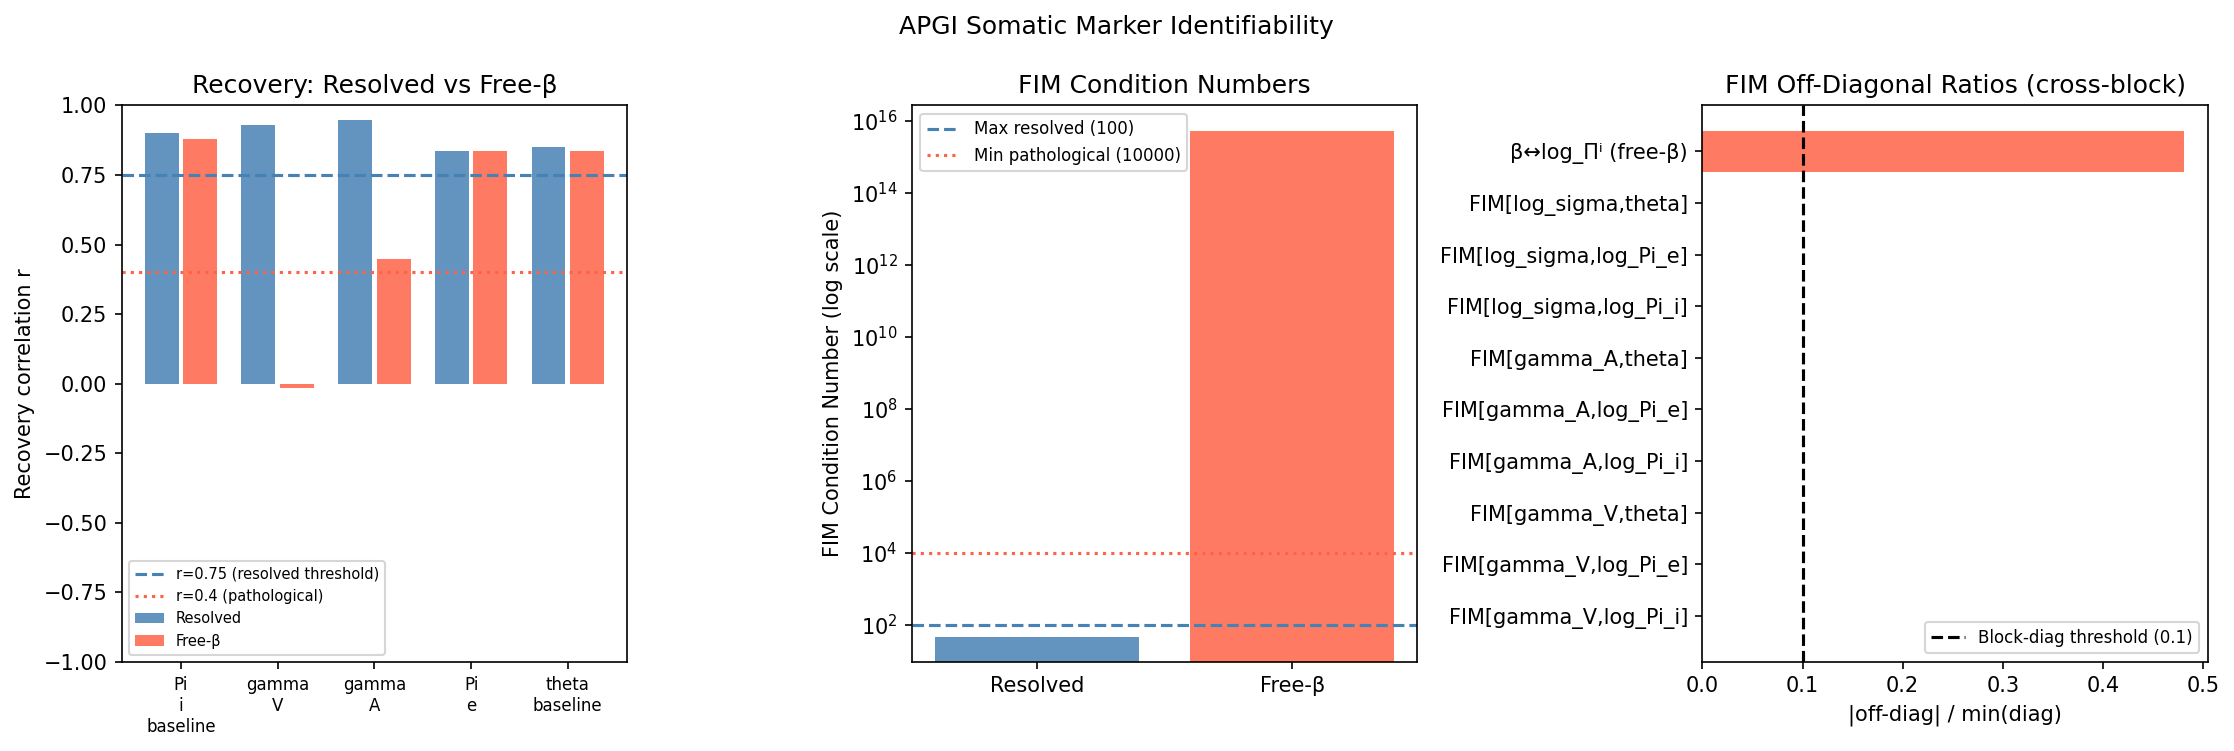
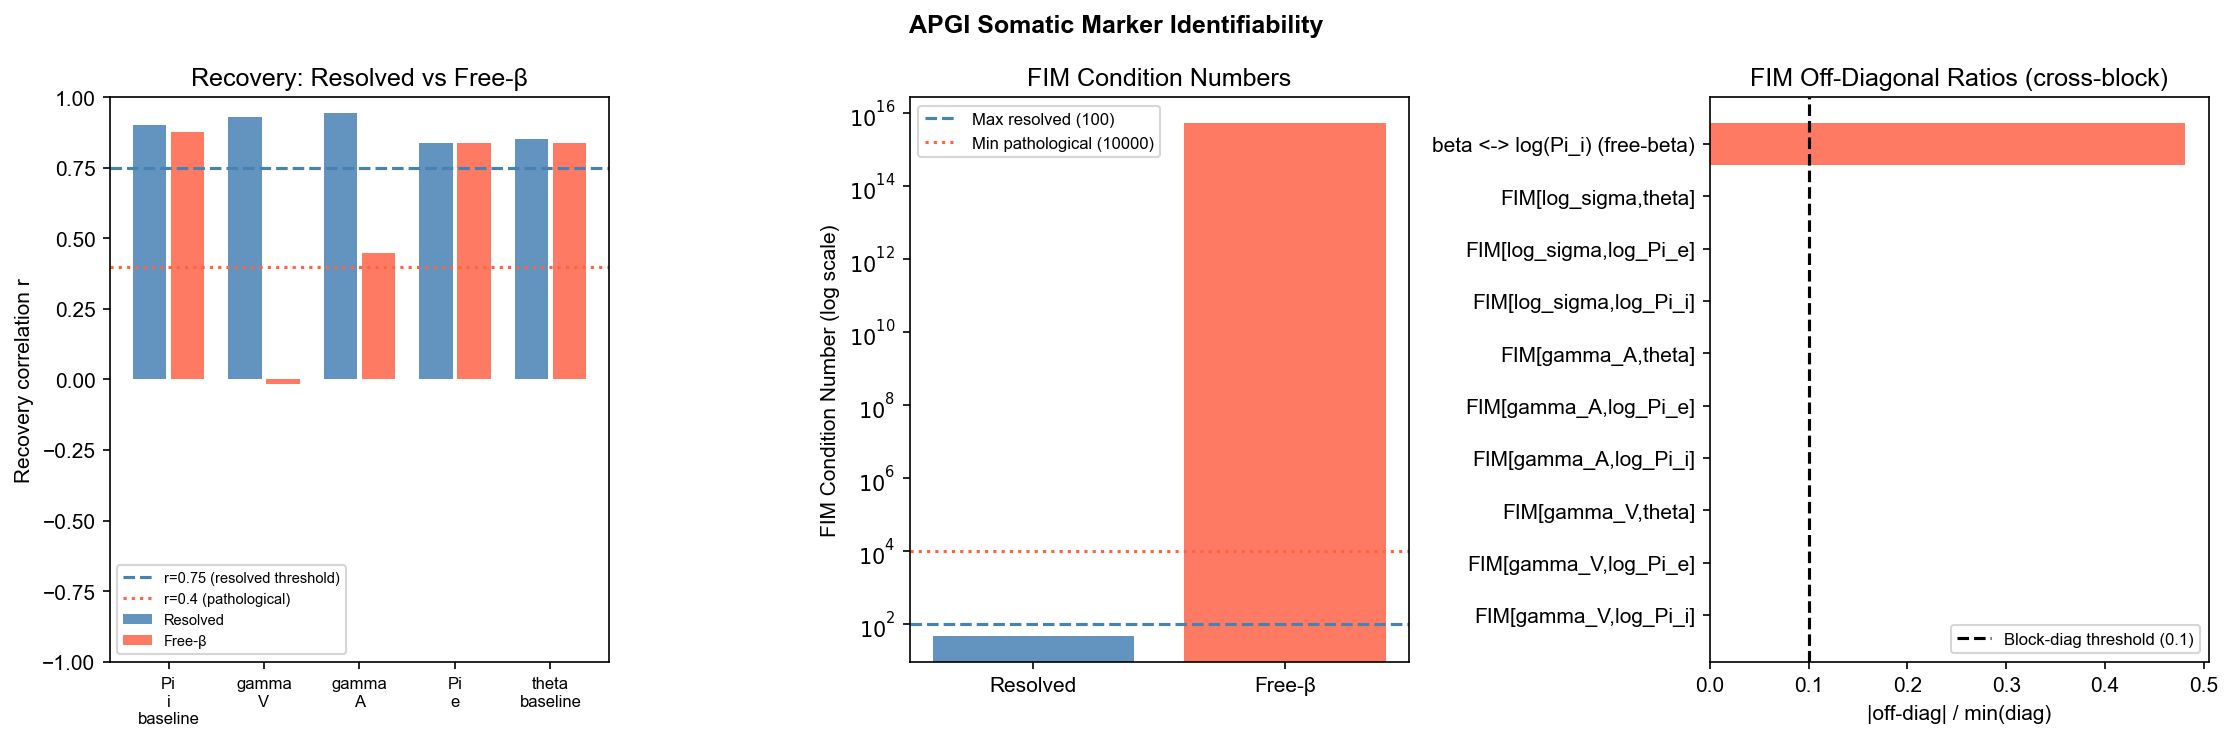
fixed font issues

diff --git a/scripts/APGI_LNN_Bifurcation_Analysis.py b/scripts/APGI_LNN_Bifurcation_Analysis.py
@@ -50,6 +50,9 @@ try:
 
     matplotlib.use("Agg")
     import matplotlib.pyplot as plt
+    matplotlib.rcParams["mathtext.default"] = "regular"
+    matplotlib.rcParams["font.family"] = "sans-serif"
+    matplotlib.rcParams["font.sans-serif"] = ["Arial", "DejaVu Sans", "Liberation Sans", "sans-serif"]
 
     HAS_MATPLOTLIB = True
 except ImportError:  # pragma: no cover
@@ -561,19 +564,19 @@ def plot_bifurcation_signatures(
 
     fig, axes = plt.subplots(2, 2, figsize=(14, 9))
     fig.suptitle(
-        "APGI-LNN Bifurcation Signatures\n" "(Saddle-node bifurcation at S = θₜ)",
+        "APGI-LNN Bifurcation Signatures\n" "(Saddle-node bifurcation at S = theta_t)",
         fontsize=13,
     )
 
     ax1, ax2, ax3, ax4 = axes.flat
 
-    # 1. Dominant eigenvalue λ₁
+    # 1. Dominant eigenvalue lambda_1
     ax1.plot(S_vals, sweep.lambda1_trace, color="#2166AC", linewidth=2)
     ax1.axhline(0, color="gray", linestyle="--", linewidth=1)
-    ax1.axvline(theta, color="#D6604D", linestyle="--", linewidth=1, label="S = θₜ")
+    ax1.axvline(theta, color="#D6604D", linestyle="--", linewidth=1, label="S = theta_t")
     ax1.set_xlabel("S_input")
-    ax1.set_ylabel("λ₁ (dominant eigenvalue)")
-    ax1.set_title("Critical Slowing: λ₁ → 0 at bifurcation")
+    ax1.set_ylabel("lambda_1 (dominant eigenvalue)")
+    ax1.set_title("Critical Slowing: lambda_1 -> 0 at bifurcation")
     ax1.legend(fontsize=9)
     ax1.set_ylim(
         max(-20, sweep.lambda1_trace.min() - 1),
@@ -585,15 +588,15 @@ def plot_bifurcation_signatures(
         sweep.variance_trace, 0, np.percentile(sweep.variance_trace, 95) * 1.5
     )
     ax2.plot(S_vals, var_clipped, color="#41AB5D", linewidth=2)
-    ax2.axvline(theta, color="#D6604D", linestyle="--", linewidth=1, label="S = θₜ")
+    ax2.axvline(theta, color="#D6604D", linestyle="--", linewidth=1, label="S = theta_t")
     ax2.set_xlabel("S_input")
-    ax2.set_ylabel("σ²(S) (theoretical)")
-    ax2.set_title("Variance Inflation: σ² ∝ 1/|λ₁|")
+    ax2.set_ylabel("sigma^2(S) (theoretical)")
+    ax2.set_title("Variance Inflation: sigma^2 ~ 1/|lambda_1|")
     ax2.legend(fontsize=9)
 
     # 3. AC1 trace
     ax3.plot(S_vals, sweep.ac1_trace, color="#856404", linewidth=2)
-    ax3.axvline(theta, color="#D6604D", linestyle="--", linewidth=1, label="S = θₜ")
+    ax3.axvline(theta, color="#D6604D", linestyle="--", linewidth=1, label="S = theta_t")
     ax3.axhline(0, color="gray", linestyle="--", linewidth=0.8)
     ax3.set_xlabel("S_input")
     ax3.set_ylabel("AC1 (lag-1 autocorrelation)")
@@ -608,7 +611,7 @@ def plot_bifurcation_signatures(
         color=VISUAL_CONSTANTS.ALLOSTATIC_PURPLE,
         linewidth=2,
     )
-    ax4.axvline(theta, color="#D6604D", linestyle="--", linewidth=1, label="S = θₜ")
+    ax4.axvline(theta, color="#D6604D", linestyle="--", linewidth=1, label="S = theta_t")
     ax4.axhline(
         0.555,
         color="gray",
@@ -626,7 +629,7 @@ def plot_bifurcation_signatures(
     if save_path is None:
         _out_dir = os.path.join(os.path.dirname(os.path.abspath(__file__)), "output")
         os.makedirs(_out_dir, exist_ok=True)
-        save_path = os.path.join(_out_dir, "bifurcation_signatures.png")
+        save_path = os.path.join(_out_dir, "APGI_LNN_Bifurcation_Analysis.png")
 
     plt.savefig(save_path, dpi=100, bbox_inches="tight")
     plt.close(fig)

diff --git a/scripts/APGI_Somatic_Marker_Identifiability.py b/scripts/APGI_Somatic_Marker_Identifiability.py
@@ -58,6 +58,11 @@ try:
     matplotlib.use("Agg")
     import matplotlib.pyplot as plt
 
+    # Disable mathtext to avoid LaTeX font warnings
+    matplotlib.rcParams["mathtext.default"] = "regular"
+    matplotlib.rcParams["font.family"] = "sans-serif"
+    matplotlib.rcParams["font.sans-serif"] = ["Arial", "DejaVu Sans", "Liberation Sans", "sans-serif"]
+
     HAS_MATPLOTLIB = True
 except ImportError:  # pragma: no cover
     HAS_MATPLOTLIB = False  # pragma: no cover
@@ -1022,7 +1027,7 @@ def _save_figure(
 
     # Panel 3: Off-diagonal ratios (cross-block)
     ax = axes[2]
-    off_labels = list(m2["offdiag_ratios"].keys()) + ["β↔log_Πⁱ (free-β)"]
+    off_labels = list(m2["offdiag_ratios"].keys()) + ["beta <-> log(Pi_i) (free-beta)"]
     off_vals = list(m2["offdiag_ratios"].values()) + [m3["beta_pi_offdiag_ratio"]]
     bar_colors = ["steelblue"] * len(m2["offdiag_ratios"]) + ["tomato"]
     ax.barh(off_labels, off_vals, color=bar_colors, alpha=0.85)